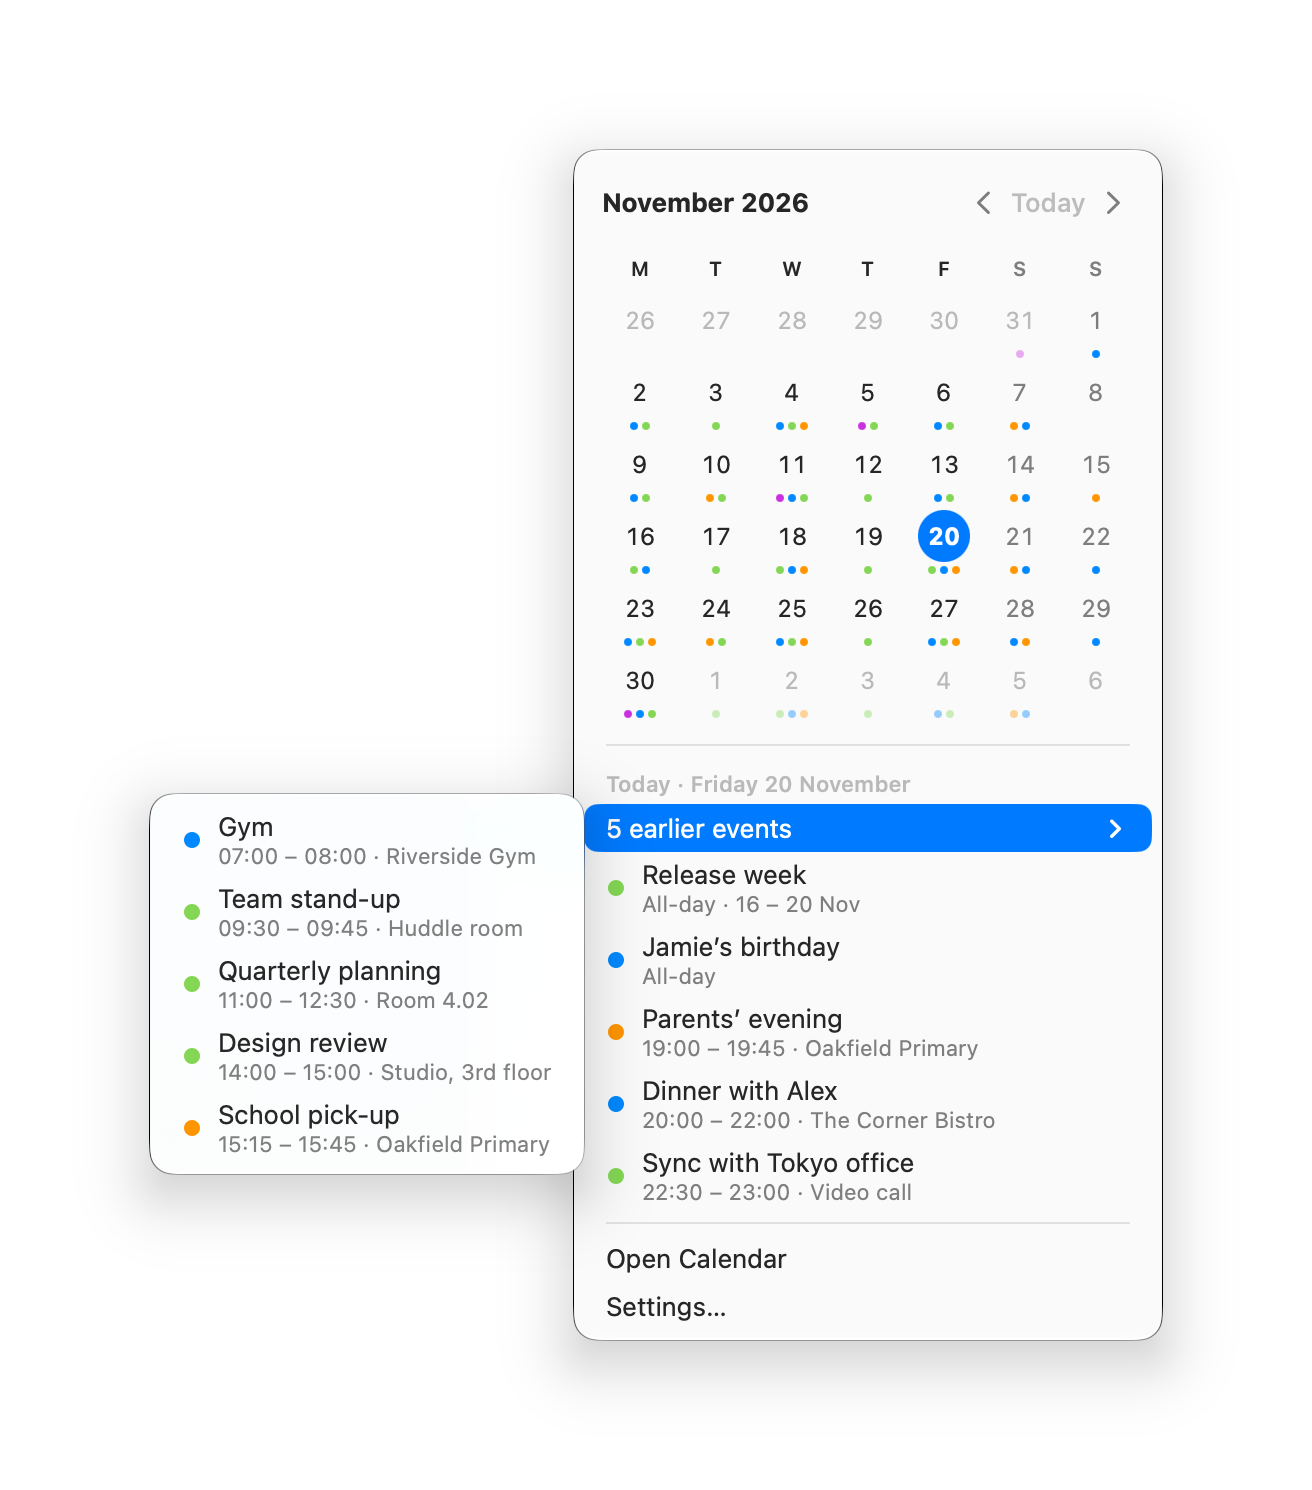
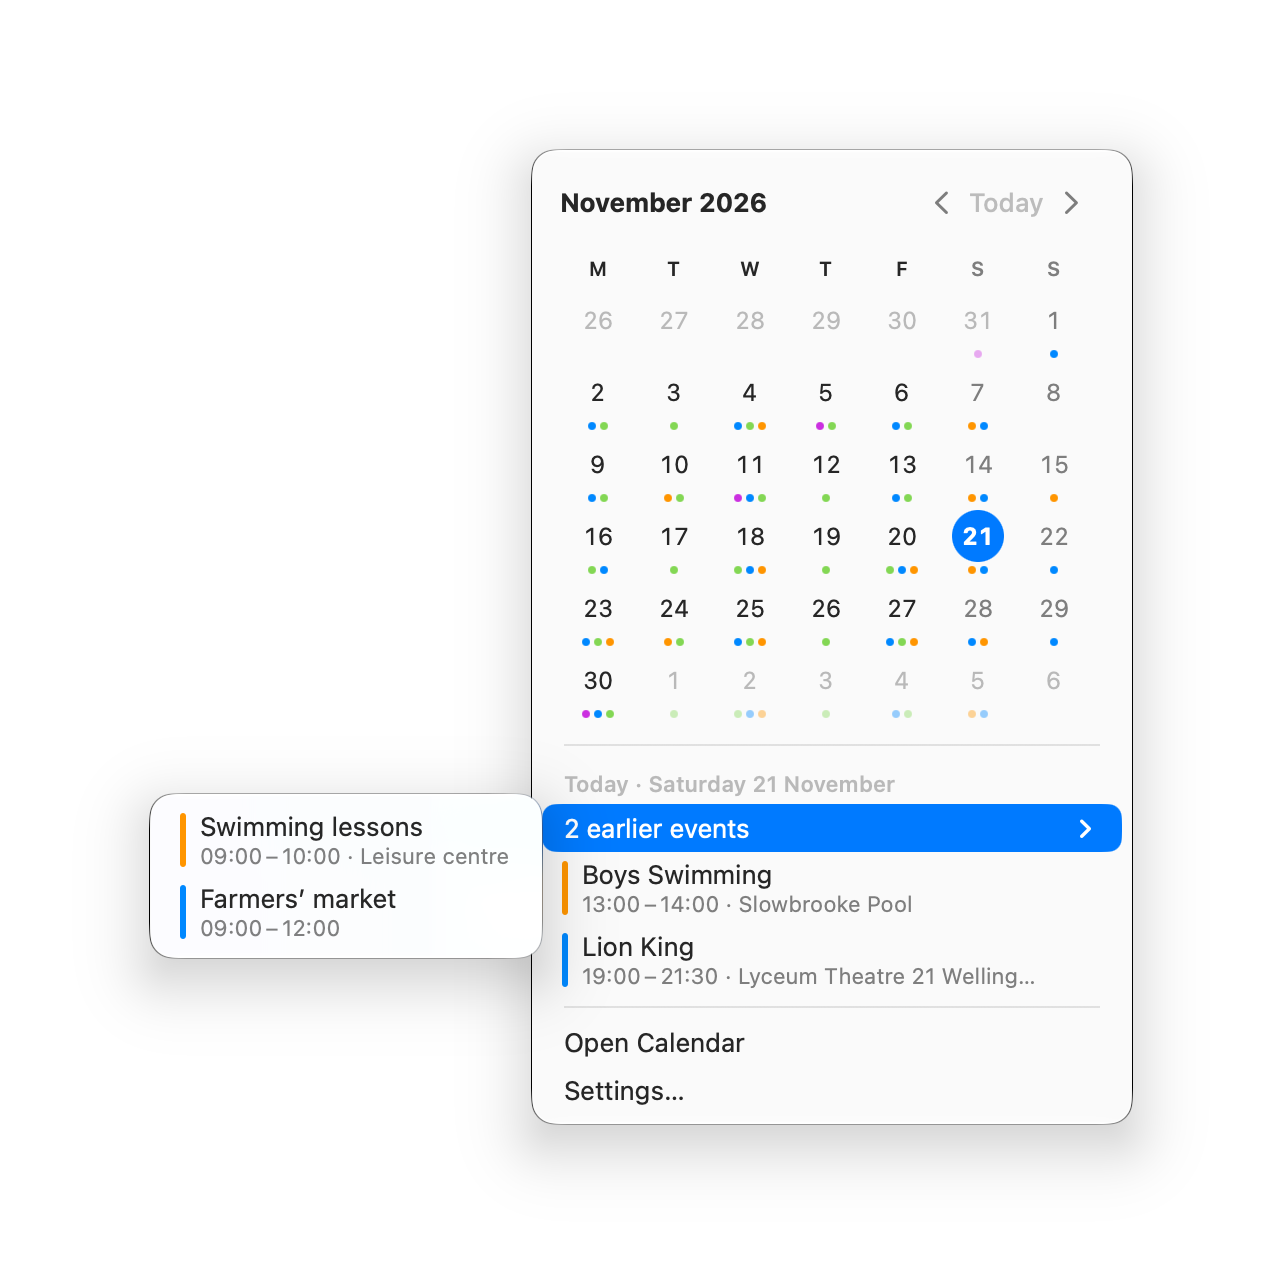
Update README screenshots for the coloured event bars
New menu and earlier-events screenshots showing the event bars, and a
new menu bar crop.

diff --git a/README.md b/README.md
@@ -5,14 +5,14 @@
 # Mencal
 A Menubar Calendar for macOS
 
-Mencal puts today's date in the menu bar (e.g. `Thu 19 Nov`) in the standard menu bar font. Click it for a menu with a month calendar and the selected day's events, in your Calendar.app colours.
+Mencal puts today's date in the menu bar (e.g. `Sat 21 Nov`) in the standard menu bar font. Click it for a menu with a month calendar and the selected day's events, in your Calendar.app colours.
 
 <p align="center">
   <img src="docs/images/menu-bar.png" width="186" alt="Mencal's date in the menu bar, beside Control Center and the clock">
 </p>
 
 <p align="center">
-  <img src="docs/images/calendar-menu.png" width="305" alt="Mencal's menu: a month calendar with today's events as menu items">
+  <img src="docs/images/calendar-menu.png" width="309" alt="Mencal's menu: a month calendar with today's events as menu items">
 </p>
 
 ## Features
@@ -23,7 +23,7 @@ Mencal puts today's date in the menu bar (e.g. `Thu 19 Nov`) in the standard men
 - **Day agenda.** The selected day's events are standard menu items under the calendar: the title, the time and location as a subtitle, and a bar in the calendar's colour running beside them, as in Calendar.app. Today's finished events sit in an *earlier events* submenu. Declined invitations and cancelled events are hidden, as in Calendar.app. Up to 8 upcoming events are listed (fewer if the screen is short, so Open Calendar and Settings stay in view); the rest are in a *more events* submenu. Days with over 100 events link to the remainder in Calendar.app.
 
 <p align="center">
-  <img src="docs/images/calendar-menu-earlier-events.png" width="450" alt="The earlier events submenu, listing today's finished events">
+  <img src="docs/images/calendar-menu-earlier-events.png" width="440" alt="The earlier events submenu, listing today's finished events">
 </p>
 
 - **Read-only.** Mencal never writes to your calendars. Clicking an event opens it in Calendar.app; *Open Calendar* or double-clicking a day opens the app for edits.
